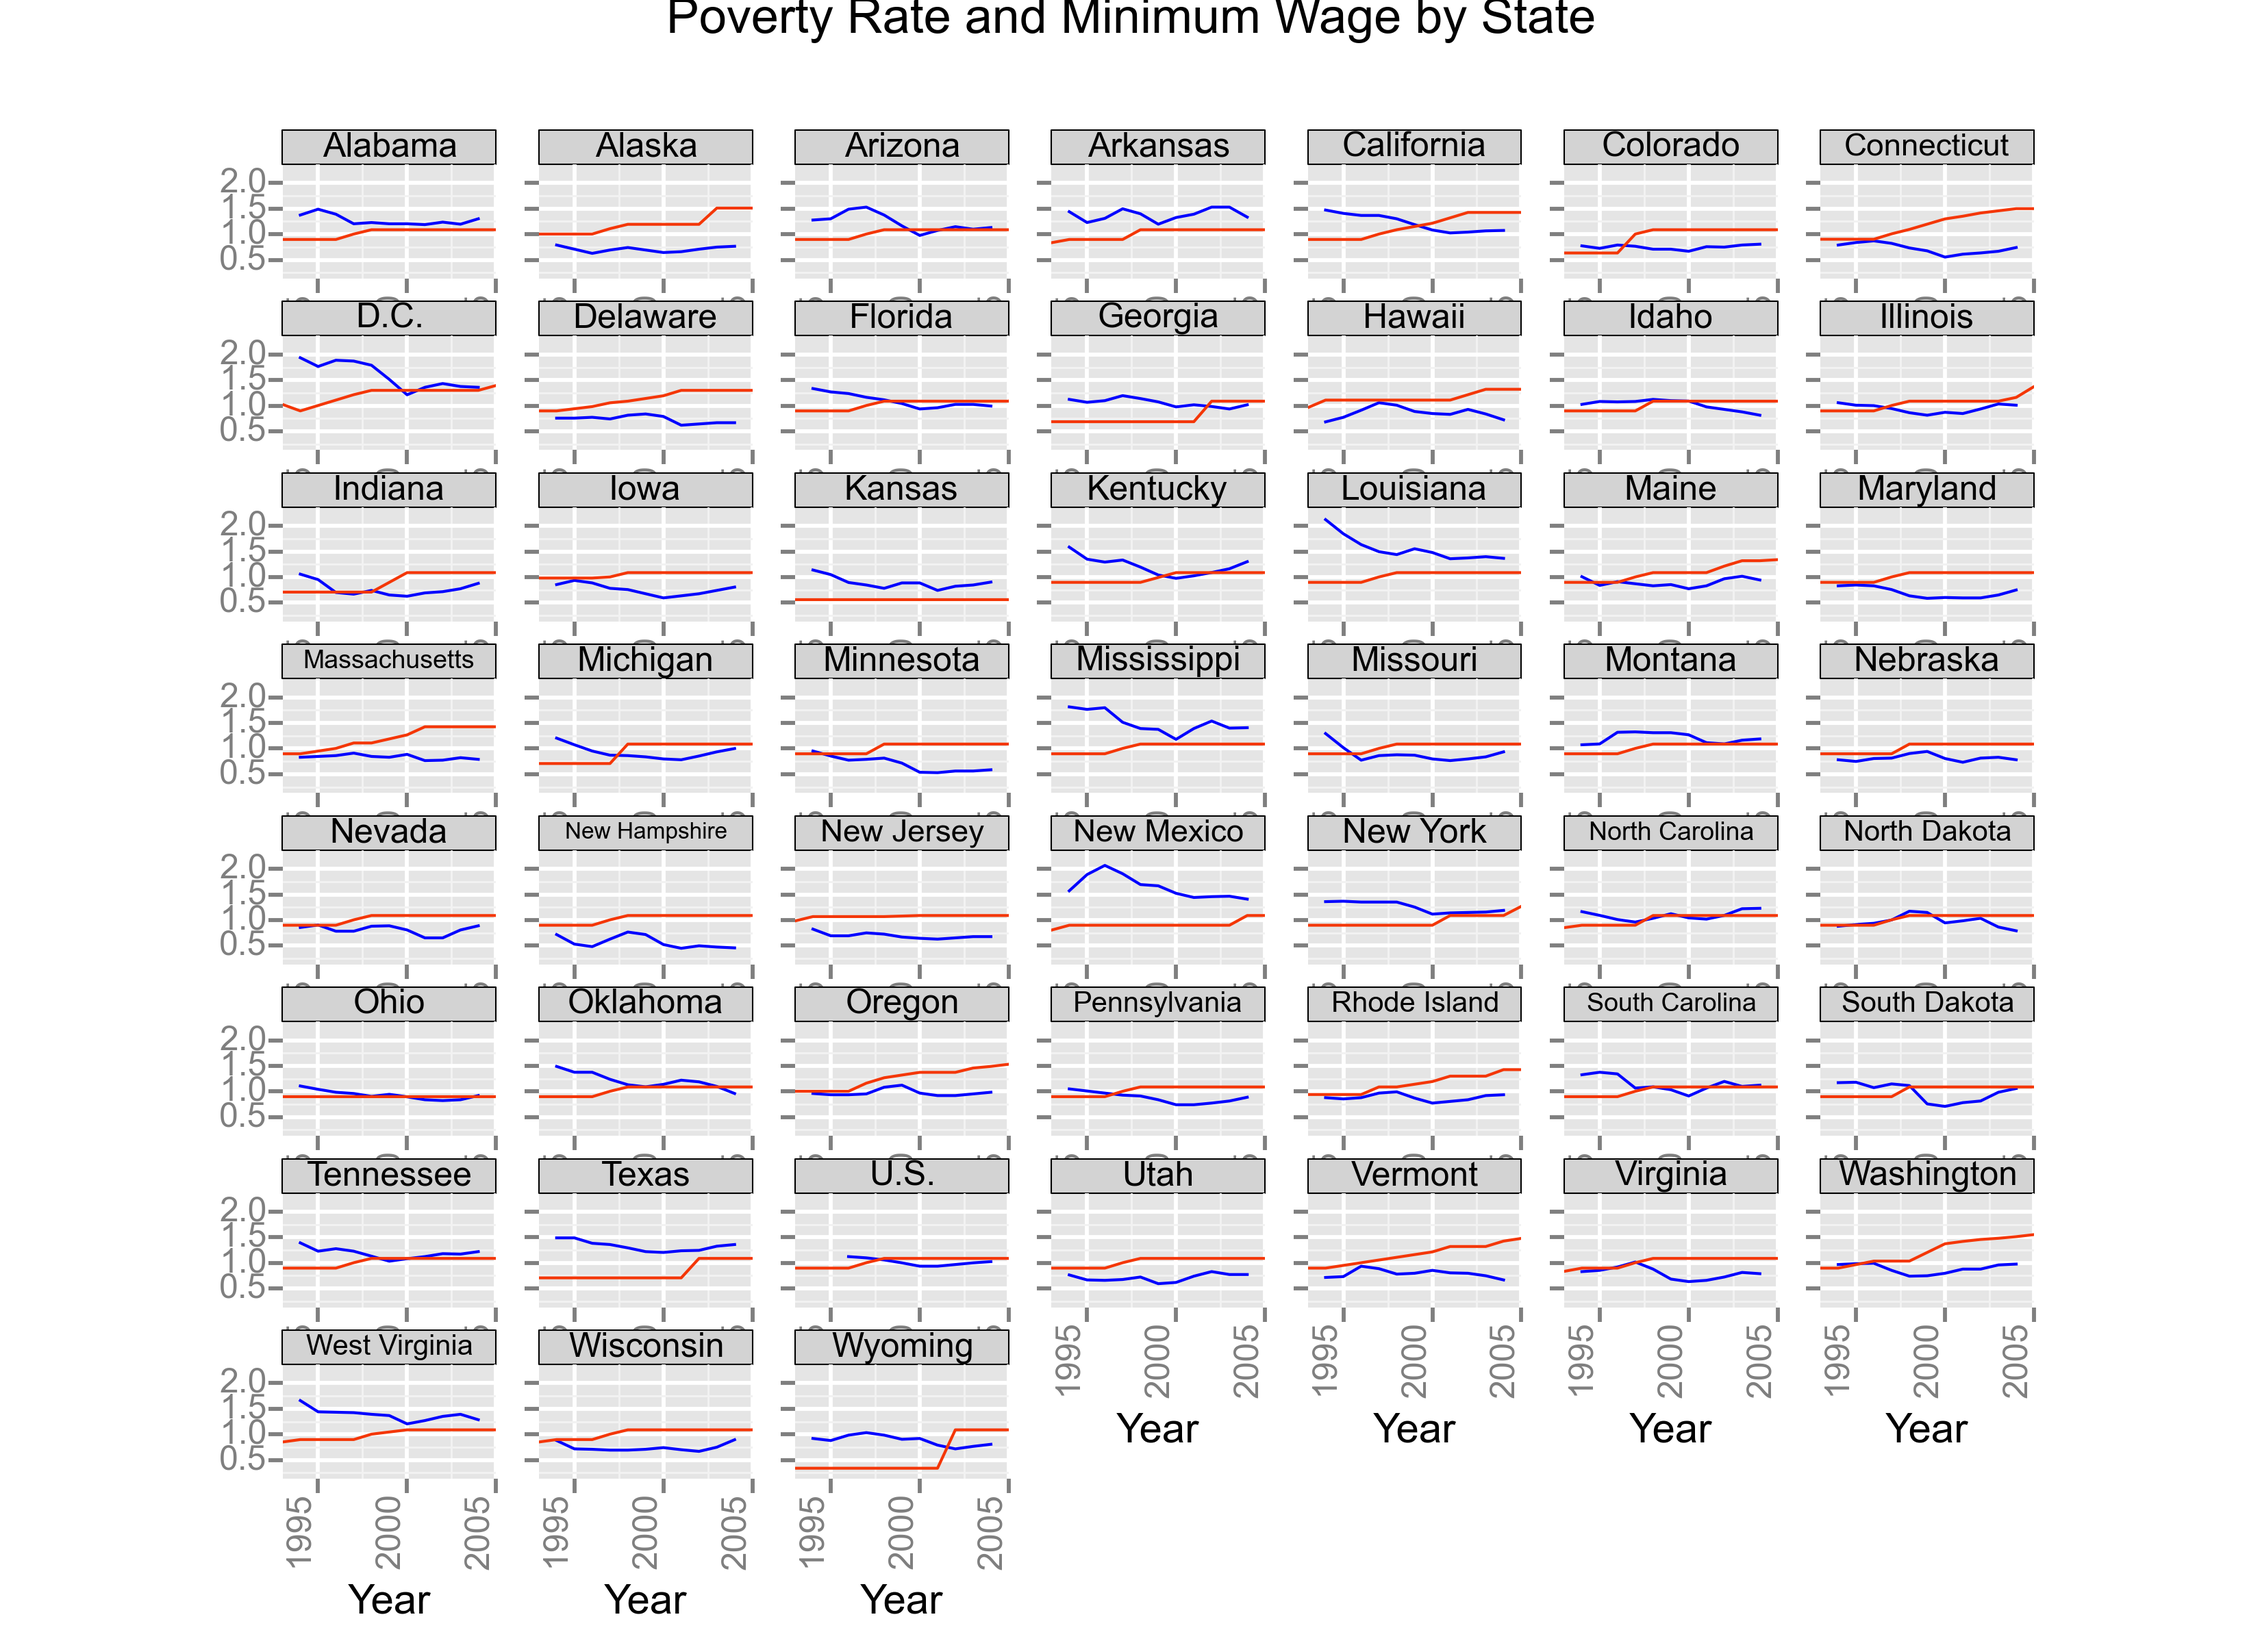
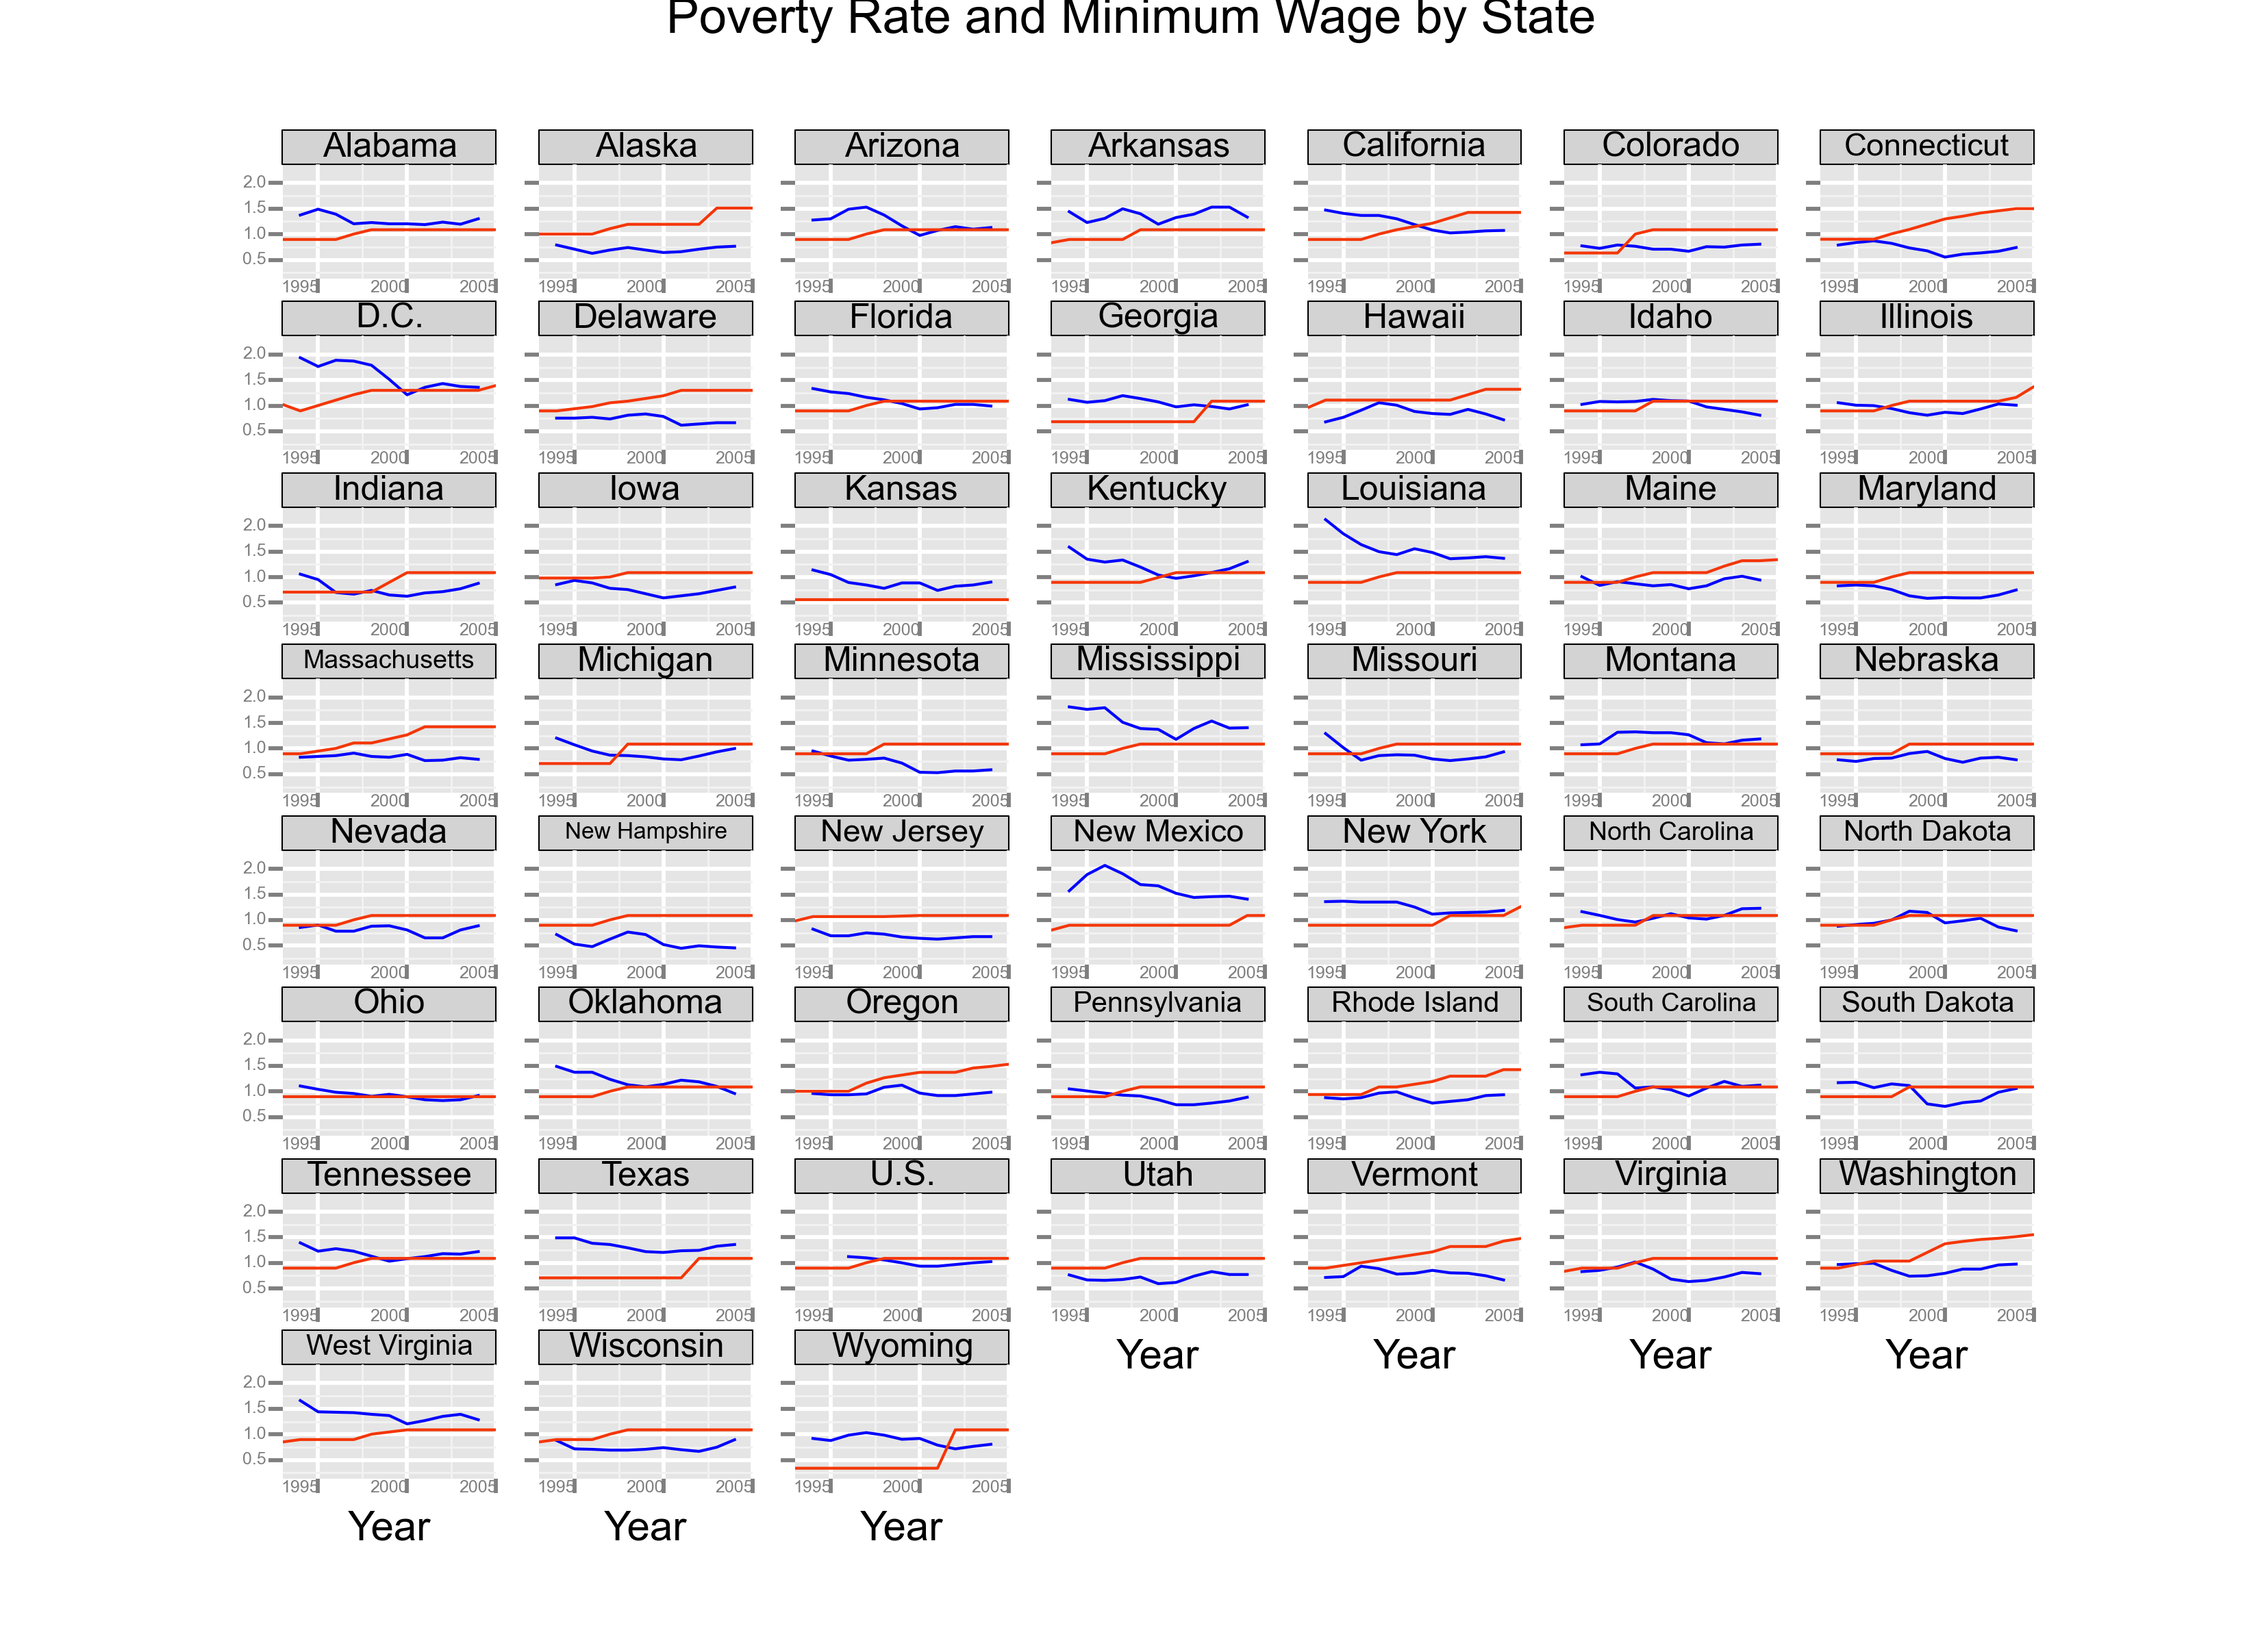
fixed plot labels

diff --git a/minwage.py b/minwage.py
@@ -40,11 +40,11 @@ pl = ggplot(df, aes('Year','Value', colour = 'factor(Type)')) + \
             facet_wrap('State', scales = 'fixed') + \
             ggtitle('Poverty Rate and Minimum Wage by State') + \
             xlim(1993,2005) + \
-            theme(axis_text_x = element_text(angle = 90,
-                                             vjust = 1,
+            theme(axis_text_x = element_text(angle = 0,
+                                             vjust = 0,
                                              hjust = 1,
-                                             size = 3),
-                         axis_text_y = element_text(size = 3)) + \
+                                             size = 6),
+                         axis_text_y = element_text(size = 6)) + \
             ylab('')
 #            xlab('Year') + \
 #            ylab('Poverty Rate') + \
